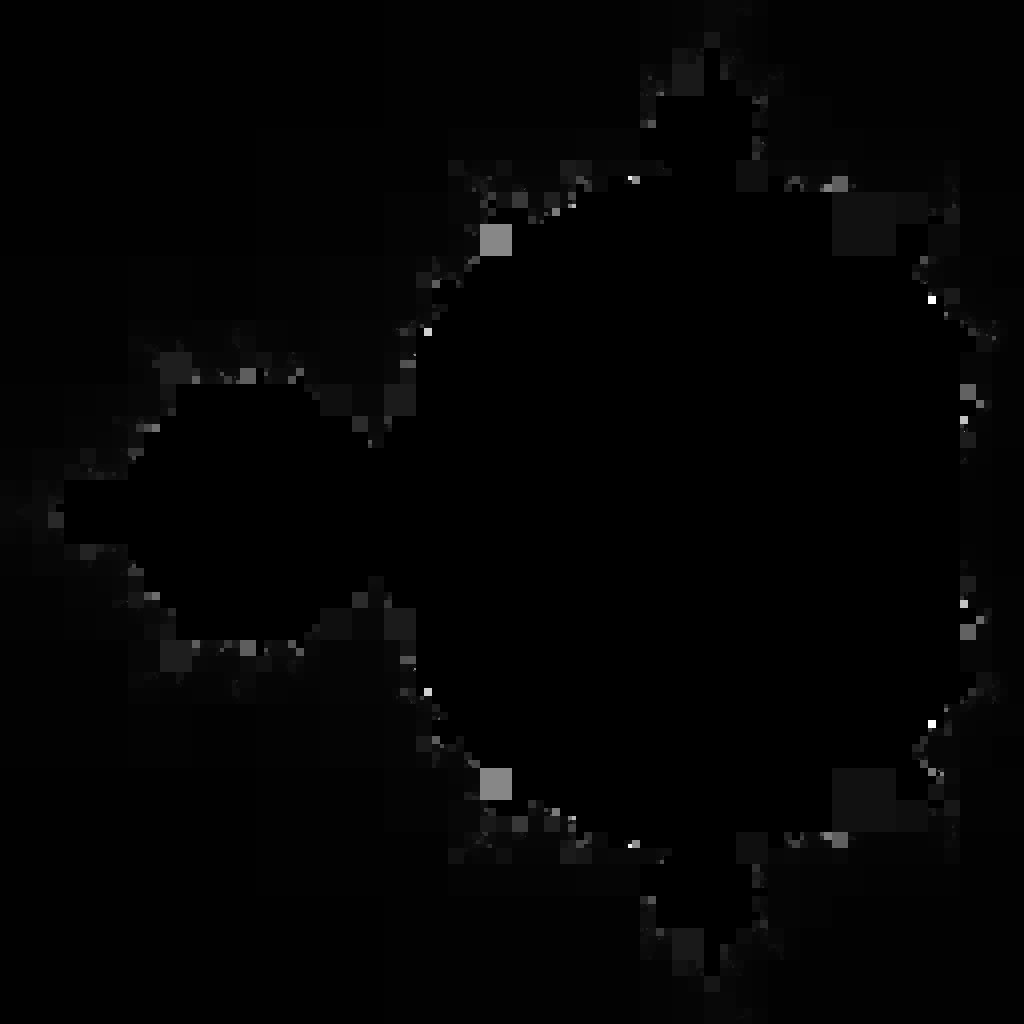
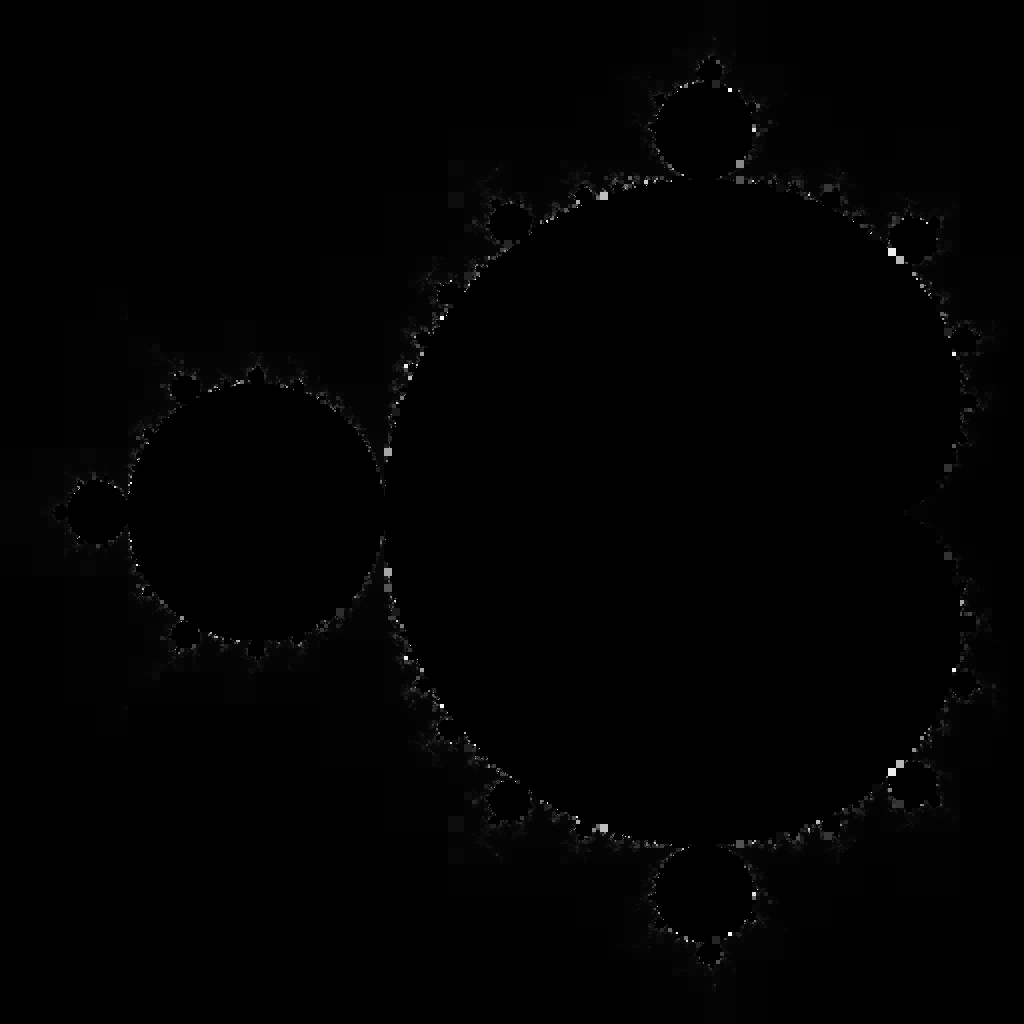
New Mandel Weight Img Gen
Re-wrote the mandelbrot weight image generator.

diff --git a/renderer.py b/renderer.py
@@ -24,16 +24,16 @@ class Renderer():
 		t = time.clock()
 
 		# The list comprehension is faster, but less flexible
-		#self.image = [[mandelbrot.render(self.cam.convertX(x), self.cam.convertY(y), 100) for x in range(self.xResMax)] for y in range(self.yResMax)]
-		image = []
-		for y in range(self.yResMax):
-			row = []
-			for x in range(self.xResMax):
-				row.append(mandelbrot.render(self.cam.convertX(x), self.cam.convertY(y)))
-			image.append(row)
+		image = [[mandelbrot.render(self.cam.convertX(x), self.cam.convertY(y)) for x in range(self.xResMax)] for y in range(self.yResMax)]
+		#image = []
+		#for y in range(self.yResMax):
+		#	row = []
+		#	for x in range(self.xResMax):
+		#		row.append(mandelbrot.render(self.cam.convertX(x), self.cam.convertY(y)))
+		#	image.append(row)
 
 		print("Render time was " + str(time.clock()-t) + " seconds.")
-		return(image)
+		return image
 
 	def renderQuadImage(self, weightImage):
 		t = time.clock()
@@ -44,7 +44,7 @@ class Renderer():
 				q = Quadtree((x*quadSize, y*quadSize), quadSize, weightImage)
 				q.render(image, self.cam)
 		print("Dynamic render time was " + str(time.clock()-t) + " seconds.")
-		return(image)
+		return image
 
 class Camera(): # This class is responsible for handling the conversion from pixel position to mathematical space
 	def __init__(self, xRes, yRes, xPos = 0, yPos = 0, zoom = 2):
@@ -58,10 +58,10 @@ class Camera(): # This class is responsible for handling the conversion from pix
 		return((convertX(x), convertY(y)))
 
 	def convertX(self, x):
-		return((x-self.xRes/2)*self.zoom/self.xRes+self.xPos)
+		return (x-self.xRes/2)*self.zoom/self.xRes+self.xPos
 
 	def convertY(self, y):
-		return((y-self.yRes/2)*self.zoom/self.yRes-self.yPos)
+		return (y-self.yRes/2)*self.zoom/self.yRes-self.yPos
 
 class Quadtree():
 	def __init__(self, pos, size, weightImage):

diff --git a/mandelbrot.py b/mandelbrot.py
@@ -1,7 +1,7 @@
 from numba import jit
 
 @jit(cache = True)
-def render(zReal, zImag, maxIter = 500):
+def render(zReal, zImag, maxIter = 1000):
 	real = zReal
 	imag = zImag
 	for n in range(maxIter):
@@ -15,12 +15,26 @@ def render(zReal, zImag, maxIter = 500):
 	return 0
 
 @jit(cache = True)
-def renderWire(x, y, maxIter = 20, margin = .5):
-	x1 = x
-	y1 = y
-	for i in range(maxIter):
-		x1, y1 = x1*x1-y1*y1+x, 2*x1*y1+y
-	test = x1*x1+y1*y1
-	if test > 4-margin and test < 4+margin:
-		return(1)
-	return(0)
+def renderWire(zReal, zImag, maxIter = 100, thresh = 50):
+	real = zReal
+	imag = zImag
+	for n in range(maxIter):
+		real2 = real*real
+		imag2 = imag*imag
+		if real2 + imag2 > 4.0:
+			if n > thresh:
+				return n
+			return 0
+		imag = 2 * real * imag + zImag
+		real = real2 - imag2 + zReal
+	return 0
+
+#def renderWire(x, y, maxIter = 20, margin = .5):
+#	x1 = x
+#	y1 = y
+#	for i in range(maxIter):
+#		x1, y1 = x1*x1-y1*y1+x, 2*x1*y1+y
+#	test = x1*x1+y1*y1
+#	if test > 4-margin and test < 4+margin:
+#		return 1
+#	return 0
